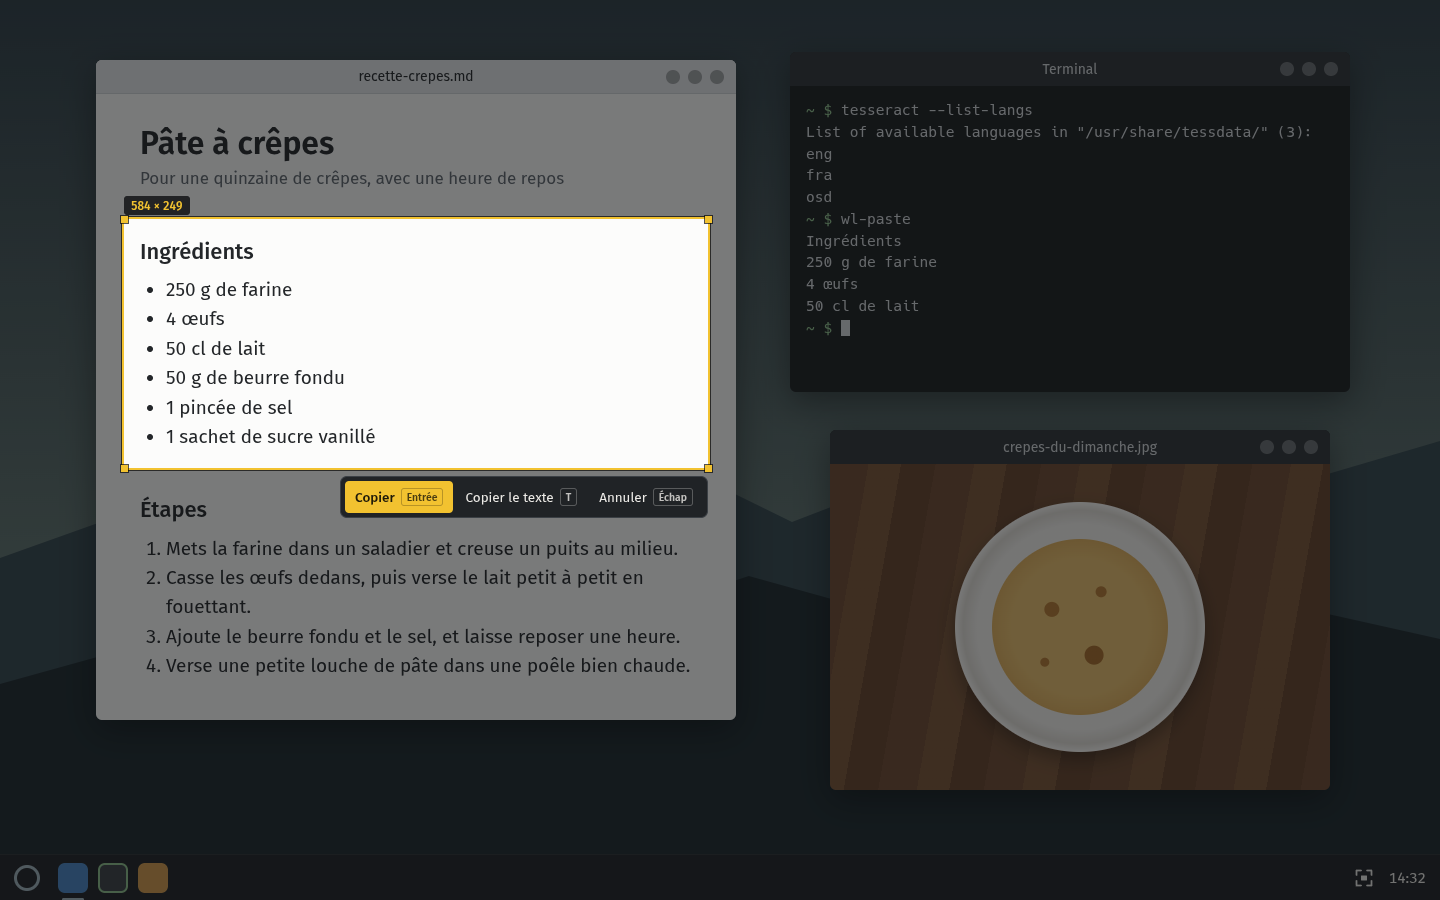
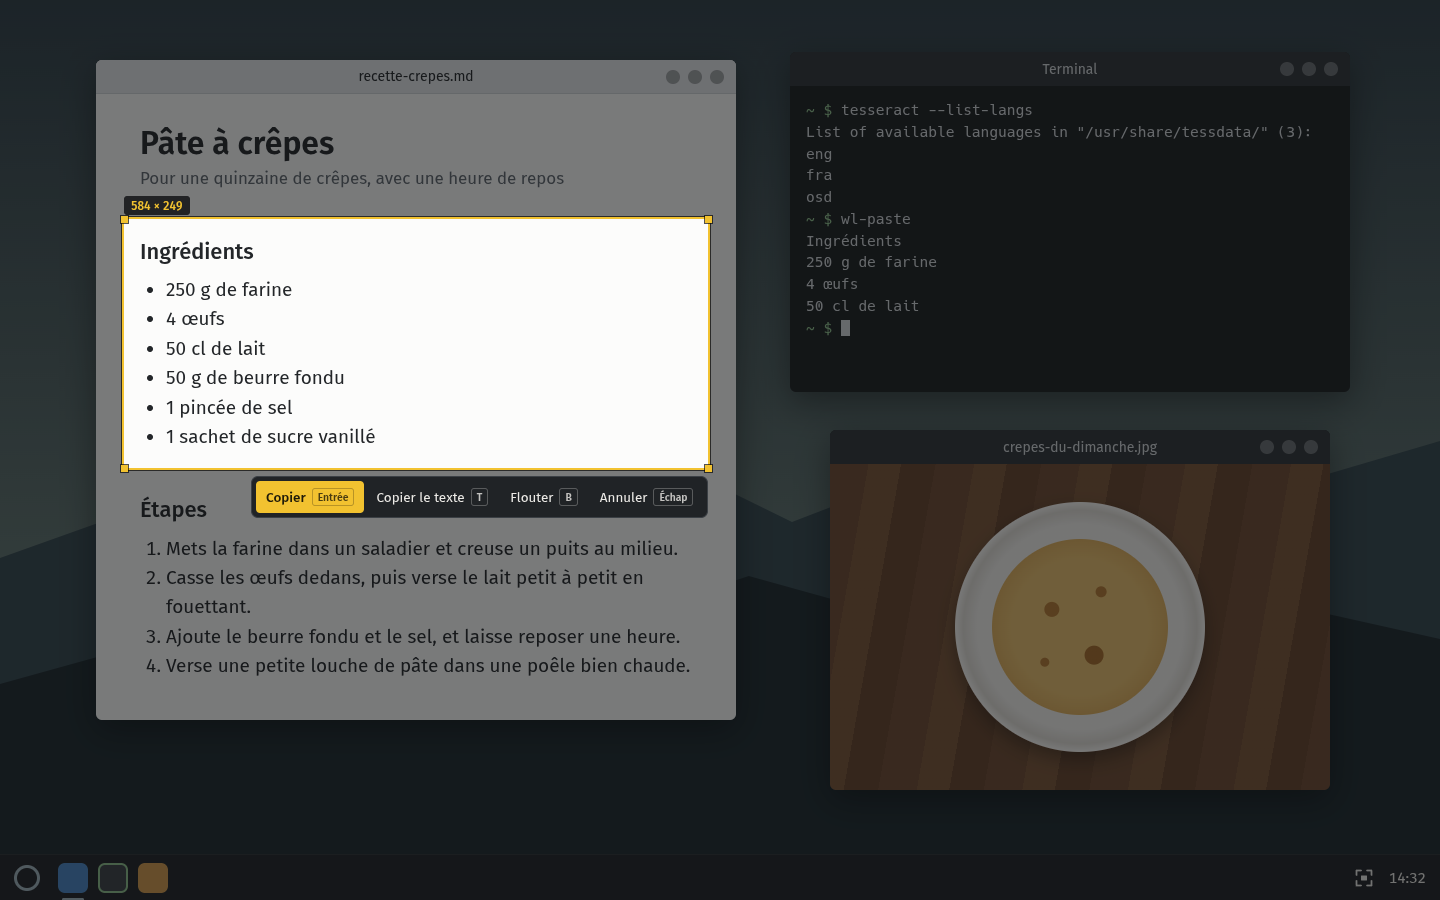
📝 docs: photograph the blur tool for the README

Changed region(s): [[0.1562, 0.5289, 0.4688, 0.5911]]

diff --git a/src/main/screenshotMode.ts b/src/main/screenshotMode.ts
@@ -31,6 +31,10 @@ const LOUPE_AIM_INSET_PIXELS = 7
 const ACTION_BAR_SHOWN = "!document.querySelector('#actions').hidden"
 const LOUPE_SHOWN = "!document.querySelector('#loupe').hidden"
 const SIZE_SHOWN = "!document.querySelector('#size').hidden"
+const BLUR_MODE_SHOWN = "!document.querySelector('#blur-hint').hidden"
+const BLUR_SHOT_MARGIN_PIXELS = 40
+const BLUR_SHOT_BAR_ROOM_PIXELS = 80
+const BLUR_PADDING_PIXELS = 3
 const VISIBLE_THUMBNAILS_LOADED = `document.querySelectorAll('.frame').length > 0 &&
   [...document.images]
     .filter((image) => image.getBoundingClientRect().top < window.innerHeight)
@@ -88,6 +92,19 @@ function frameDrawnBy(window: BrowserWindow): Promise<void> {
   })
 }
 
+function dragAcross(window: BrowserWindow, region: Region): void {
+  const end = { x: region.x + region.width, y: region.y + region.height }
+  window.webContents.sendInputEvent({
+    type: 'mouseDown',
+    x: region.x,
+    y: region.y,
+    button: 'left',
+    clickCount: 1
+  })
+  window.webContents.sendInputEvent({ type: 'mouseMove', ...end, button: 'left' })
+  window.webContents.sendInputEvent({ type: 'mouseUp', ...end, button: 'left', clickCount: 1 })
+}
+
 function areaAround(point: Point, size: Size): Rectangle {
   return {
     x: Math.max(0, Math.min(point.x - LOUPE_SHOT_LEAD_PIXELS, SCENE_SIZE.width - size.width)),
@@ -125,6 +142,15 @@ async function photographSelection(scene: Scene, outputDirectory: string): Promi
   window.webContents.sendInputEvent({ type: 'mouseUp', ...end, button: 'left', clickCount: 1 })
   await waitForPage(window, ACTION_BAR_SHOWN)
   await savePageImage(window, join(outputDirectory, 'hero.png'))
+  window.webContents.sendInputEvent({ type: 'keyDown', keyCode: 'B' })
+  dragAcross(window, paddedRegion(scene.blurTarget, BLUR_PADDING_PIXELS))
+  await waitForPage(window, BLUR_MODE_SHOWN)
+  await savePageImage(window, join(outputDirectory, 'blur.png'), {
+    x: selection.x - BLUR_SHOT_MARGIN_PIXELS,
+    y: selection.y - BLUR_SHOT_MARGIN_PIXELS,
+    width: selection.width + BLUR_SHOT_MARGIN_PIXELS * 2,
+    height: selection.height + BLUR_SHOT_MARGIN_PIXELS + BLUR_SHOT_BAR_ROOM_PIXELS
+  })
 }
 
 async function photographHistory(path: string): Promise<void> {

diff --git a/src/main/screenshotScene.ts b/src/main/screenshotScene.ts
@@ -12,6 +12,7 @@ export interface Scene {
   heroRegion: Region
   loupeTarget: Region
   hoverTarget: Region
+  blurTarget: Region
   sampleRegions: Region[]
 }
 
@@ -33,6 +34,7 @@ const MEASURE_TARGETS = `(() => {
   const hero = document.querySelector('[data-hero]')
   const loupe = document.querySelector('[data-loupe]')
   const hover = document.querySelector('[data-hover]')
+  const blur = document.querySelector('[data-blur]')
   const windows = [...document.querySelectorAll('[data-window]')].map(regionOf)
   const samples = [...document.querySelectorAll('[data-capture]')]
     .sort((first, second) => Number(first.dataset.capture) - Number(second.dataset.capture))
@@ -41,6 +43,7 @@ const MEASURE_TARGETS = `(() => {
     hero: hero ? regionOf(hero) : null,
     loupe: loupe ? regionOf(loupe) : null,
     hover: hover ? regionOf(hover) : null,
+    blur: blur ? regionOf(blur) : null,
     windows,
     samples
   }
@@ -72,19 +75,21 @@ function targetsWithin(measured: unknown, frame: ScenePixels): SceneTargets {
     !('hero' in measured) ||
     !('loupe' in measured) ||
     !('hover' in measured) ||
+    !('blur' in measured) ||
     !('windows' in measured) ||
     !('samples' in measured) ||
     !Array.isArray(measured.windows) ||
     !Array.isArray(measured.samples)
   ) {
     throw new Error(
-      'Scène illisible : il manque data-hero, data-loupe, data-hover, data-window ou data-capture'
+      'Scène illisible : il manque une cible data-hero, data-loupe, data-hover, data-blur, data-window ou data-capture'
     )
   }
   return {
     heroRegion: toRegionWithin(measured.hero, frame),
     loupeTarget: toRegionWithin(measured.loupe, frame),
     hoverTarget: toRegionWithin(measured.hover, frame),
+    blurTarget: toRegionWithin(measured.blur, frame),
     windows: measured.windows.map((region: unknown) => toRegionWithin(region, frame)).reverse(),
     sampleRegions: measured.samples.map((region: unknown) => toRegionWithin(region, frame))
   }

diff --git a/docs/scene/index.html b/docs/scene/index.html
@@ -33,7 +33,7 @@
             <li>50 cl de lait</li>
             <li>50 g de beurre fondu</li>
             <li>1 pincée de sel</li>
-            <li>1 sachet de sucre <span data-loupe>vanillé</span></li>
+            <li data-blur>1 sachet de sucre <span data-loupe>vanillé</span></li>
           </ul>
         </section>
         <section data-capture="6">
